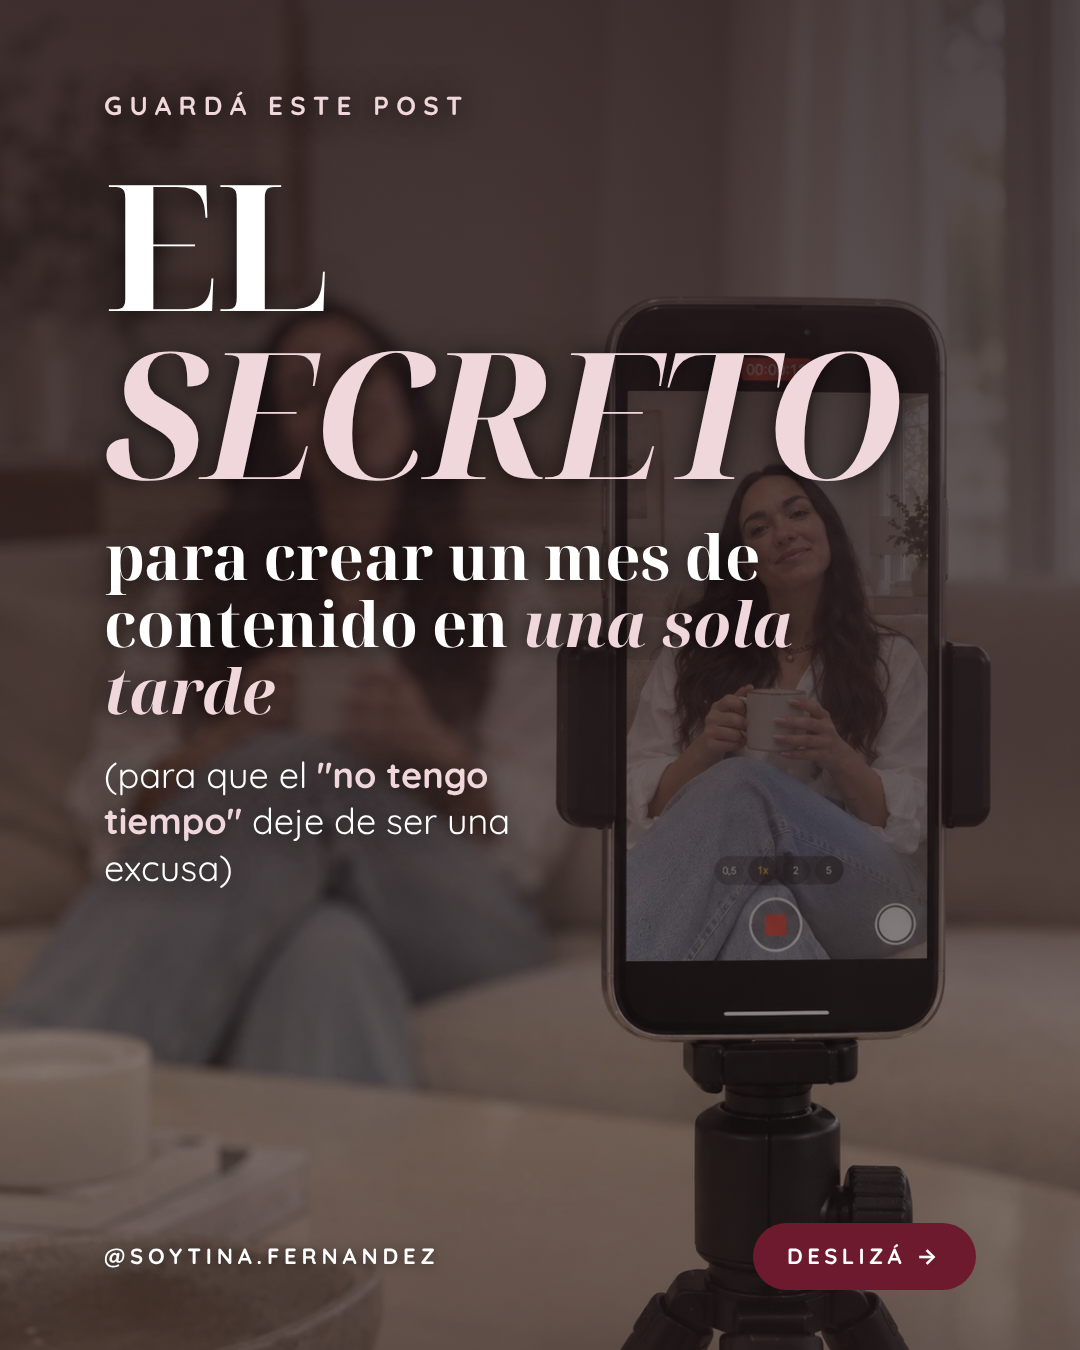
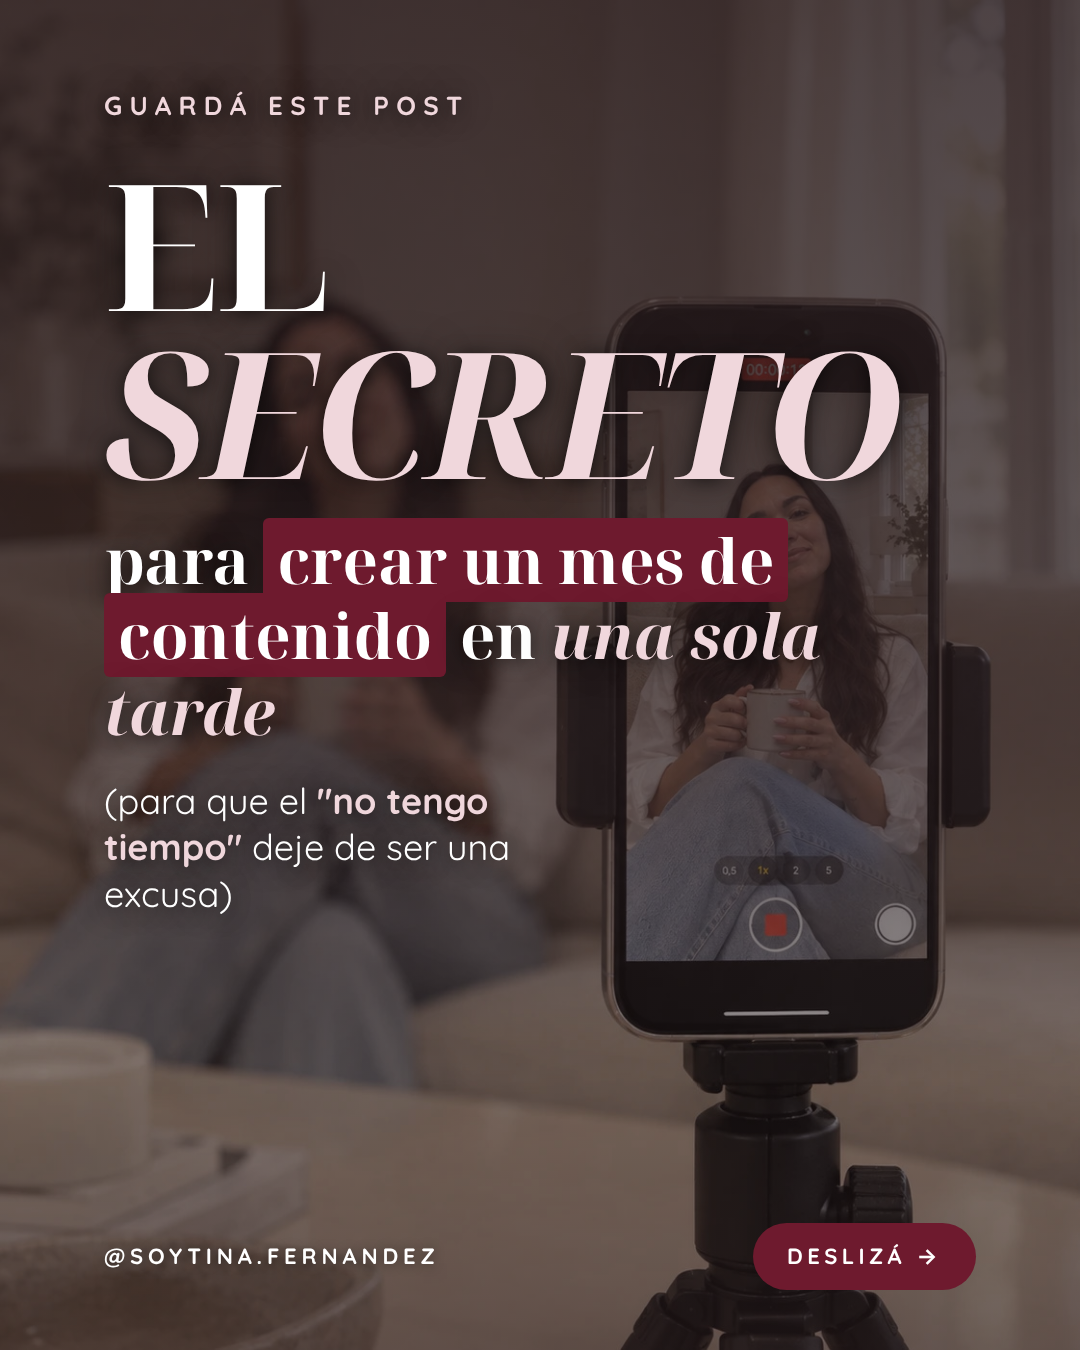
Carrusel 01: resaltar 'crear un mes de contenido' en la portada
Claude-Session: https://claude.ai/code/session_01646vauRcMy6cepeBrdUKa1

Changed region(s): [[0.0917, 0.3733, 0.7639, 0.6844]]

diff --git a/carruseles/01-mes-de-contenido-en-una-tarde/slides.html b/carruseles/01-mes-de-contenido-en-una-tarde/slides.html
@@ -77,6 +77,11 @@
   .portada .secreto mark { font-weight: 700; color: var(--suave); }
   .portada .promesa { font-family: var(--font-titulo); font-weight: 700; font-size: 62px; line-height: 1.08; margin-bottom: 28px; }
   .portada .promesa mark { font-style: italic; font-weight: 700; color: var(--suave); }
+  .portada .resaltado {
+    background: var(--acento); color: #fff; padding: 0 14px; border-radius: 6px; text-shadow: none;
+    -webkit-box-decoration-break: clone; box-decoration-break: clone;
+  }
+  .portada .promesa { line-height: 1.22; }
   .portada .excusa { max-width: 480px; font-size: 36px; font-weight: 400; line-height: 1.3; }
   .portada .excusa b { font-weight: 700; color: var(--suave); }
   .portada .kicker {
@@ -155,7 +160,7 @@
   <div class="contenido">
     <p class="kicker">Guardá este post</p>
     <h1 class="secreto">El <mark>secreto</mark></h1>
-    <p class="promesa">para crear un mes de contenido en <mark>una sola tarde</mark></p>
+    <p class="promesa">para <span class="resaltado">crear un mes de contenido</span> en <mark>una sola tarde</mark></p>
     <p class="excusa">(para que el <b>"no tengo tiempo"</b> deje de ser una excusa)</p>
   </div>
   <div class="pie"><span>@soytina.fernandez</span><span class="desliza">Deslizá →</span></div>
